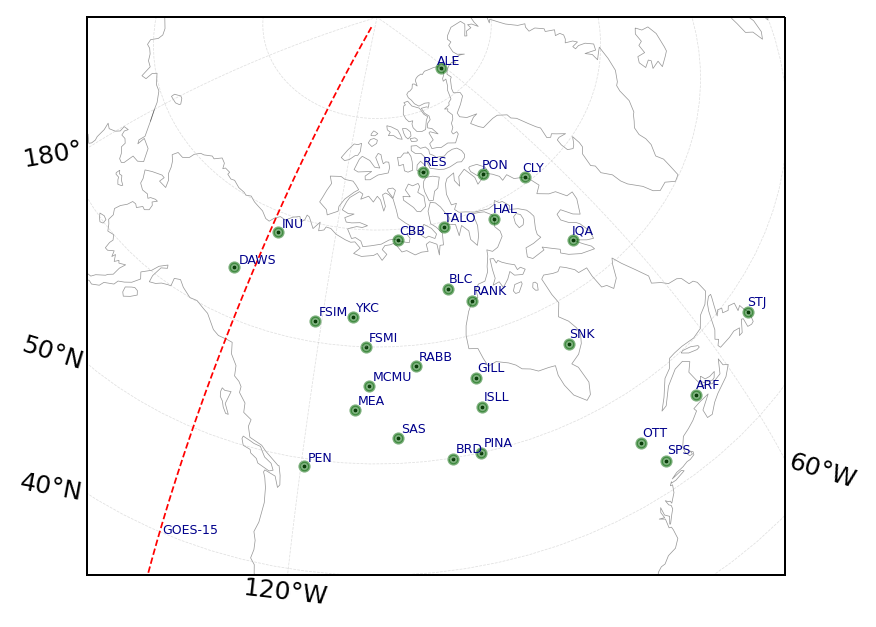
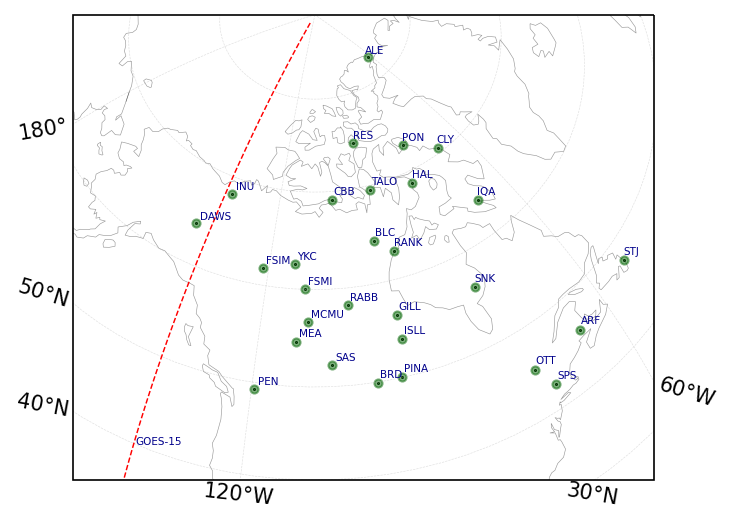
SW - Absorption

diff --git a/analytics/plotlib.py b/analytics/plotlib.py
@@ -16,18 +16,27 @@ matplotlib.use("Agg")
 import cartopy
 import cartopy.crs as ccrs
 import matplotlib.pyplot as plt
-#plt.style.use("config/alt.mplstyle")
+plt.style.use("seaborn-bright")
 import numpy as np
 import pandas as pd
 import matplotlib.ticker as mticker
 import datetime as dt
 import aacgmv2
+from netCDF4 import Dataset, num2date
+import matplotlib.dates as mdates
+
+import os
+import sys
+sys.path.append("models/")
+
+import utils
+from fetch_data import Simulation, Riometer
 
 np.set_printoptions(formatter={"float_kind": lambda x:"{:.2f}".format(x)})
 
 def plot_rio_locations():
     """ Plot all riometers used for the study """
-    fig = plt.figure(figsize=(5,9),dpi=180)
+    fig = plt.figure(figsize=(5,9),dpi=150)
     ax = plt.axes(projection=ccrs.NearsidePerspective(central_longitude=-110, central_latitude=60))
     kwargs = {}
     kwargs["edgecolor"] = "black"
@@ -60,9 +69,168 @@ def plot_rio_locations():
          column_format="ccccc"))  
     return
 
+def analysis_plot():
+    def fit_mod(y, x=np.arange(10,500), lim=55):
+        yf = utils.extrap1d(x[lim:], y[lim:], kind="linear")
+        return yf(x)
+    rio = "ott"
+    date = dt.datetime(2015,3,11,16,20)
+    sim = Simulation(date, rio)
+    sim.create_remote_local_dir()
+    sim.get_bgc_file()
+    sim.get_flare_file()
+    _ncb = Dataset(sim._dir_ + "bgc.nc")
+    _ncf = Dataset(sim._dir_ + "flare.nc")
+    alt = np.arange(10,500)
+    fig, axes = plt.subplots(figsize=(5,8),dpi=120,nrows=3,ncols=2,sharey="row")
+    ax = axes[0,0]
+    ax.set_ylabel("Height, km")
+    ax.set_xlabel(r"Density, $m^{-3}$")
+    ax.semilogx(fit_mod(_ncf.variables["ne"][10,:]), alt, color="r", ls="--", lw=1.)
+    ax.semilogx(fit_mod(_ncf.variables["ni"][10,:]), np.arange(10,500), color="g", ls="--", lw=1.)
+    ax.semilogx(fit_mod(_ncf.variables["ni-"][10,:]), np.arange(10,500), color="b", ls="--", lw=1.)
+    ax.semilogx(fit_mod(_ncf.variables["nix"][10,:]), np.arange(10,500), color="gold", ls="--", lw=1.)
+    ax.text(0.5,1.05,"2015-03-11 16:02 UT", ha="center", va="center", fontdict={"color":"b"}, transform=ax.transAxes)
+    ax.text(0.7,.9,"(a.1)", ha="center", va="center", transform=ax.transAxes)
+    ax.set_ylim(60,120)
+    ax.set_xlim(1e6,1e12)
+    ax = axes[0,1]
+    ax.set_xlabel(r"Density, $m^{-3}$")
+    ax.semilogx(_ncf.variables["ne"][20,:], alt, color="r", ls="--", lw=1., label=r"$n_e$")
+    ax.semilogx(_ncf.variables["ni"][20,:], np.arange(10,500), color="g", ls="--", lw=1., label=r"$n^+$")
+    ax.semilogx(_ncf.variables["ni-"][20,:], np.arange(10,500), color="b", ls="--", lw=1., label=r"$n^-$")
+    ax.semilogx(_ncf.variables["nix"][20,:], np.arange(10,500), color="gold", ls="--", lw=1., label=r"$n_x^+$")
+    ax.set_xlim(1e6,1e12)
+    ax.set_ylim(60,120)
+    ax.text(0.5,1.05,"2015-03-11 16:22 UT", ha="center", va="center", fontdict={"color":"b"}, transform=ax.transAxes)
+    ax.text(0.7,.9,"(a.2)", ha="center", va="center", transform=ax.transAxes)
+    ax.legend(bbox_to_anchor=(1.05, 0.8))
+    
+    ax = axes[1,0]
+    ax.set_ylabel("Height, km")
+    ax.set_xlabel(r"Collision Frequency $(\nu)$, $s^{-1}$")
+    ax.semilogx(fit_mod(_ncb.variables["col.av.sn"][10,:]), alt, color="b", ls="--", lw=1.)
+    ax.semilogx(_ncb.variables["col.ft"][10,:], alt, color="r", ls="--", lw=1.)
+    ax.semilogx(_ncb.variables["col.av.cc"][10,:], alt, color="g", ls="--", lw=1.)
+    ax.semilogx(_ncb.variables["col.av.mb"][10,:], alt, color="g", ls="-.", lw=1.)
+    ax.text(0.7,.9,"(b.1)", ha="center", va="center", transform=ax.transAxes)
+    ax.set_ylim(60,120)
+    ax.set_xlim(1e2,1e8)
+    ax = axes[1,1]
+    ax.set_xlabel(r"Collision Frequency $(\nu)$, $s^{-1}$")
+    ax.semilogx(fit_mod(_ncb.variables["col.av.sn"][10,:]), alt, color="b", ls="--", lw=1., label=r"$\nu_{sn}$")
+    ax.semilogx(_ncb.variables["col.ft"][20,:], alt, color="r", ls="--", lw=1., label=r"$\nu_{me}$")
+    ax.semilogx(_ncb.variables["col.av.cc"][20,:], alt, color="g", ls="--", lw=1., label=r"$\nu^{cc}_{av}$")
+    ax.semilogx(_ncb.variables["col.av.mb"][20,:], alt, color="g", ls="-.", lw=1., label=r"$\nu^{mb}_{av}$")
+    ax.set_ylim(60,120)
+    ax.set_xlim(1e2,1e8)
+    ax.text(0.7,.9,"(b.2)", ha="center", va="center", transform=ax.transAxes)
+    ax.legend(bbox_to_anchor=(1.05, 0.8))
+    
+    ax = axes[2,0]
+    ax.set_ylabel("Height, km")
+    ax.set_xlabel(r"Absorption $(\beta^h)$, $db/km$")
+    ax.plot(fit_mod(_ncf.variables["abs.ah.sn.o"][10,:], lim=65), alt, color="r", ls="--", lw=1.)
+    ax.plot(fit_mod(_ncf.variables["abs.ah.av.cc.o"][10,:], lim=65), alt, color="g", ls="--", lw=1.)
+    ax.plot(fit_mod(_ncf.variables["abs.ah.av.mb.o"][10,:], lim=65), alt, color="b", ls="--", lw=1.)
+    ax.plot(fit_mod(_ncf.variables["abs.sw.ft.o"][10,:], lim=65), alt, color="k", ls="-.", lw=1.)
+    ax.set_ylim(60,120)
+    ax.set_xlim(0,0.15)
+    ax.text(0.7,.9,"(c.1)", ha="center", va="center", transform=ax.transAxes)
+    ax = axes[2,1]
+    ax.set_xlabel(r"Absorption $(\beta^h)$, $db/km$")
+    ax.plot(fit_mod(_ncf.variables["abs.ah.sn.o"][22,:]), alt, color="r", ls="--", lw=1., label=r"$\beta_{ah}^h(\nu_{sn})$")
+    ax.plot(fit_mod(_ncf.variables["abs.ah.av.cc.o"][22,:]), alt, color="g", ls="--", lw=1., label=r"$\beta_{ah}^h(\nu^{cc}_{av})$")
+    ax.plot(fit_mod(_ncf.variables["abs.ah.av.mb.o"][22,:]), alt, color="b", ls="--", lw=1., label=r"$\beta_{ah}^h(\nu^{mb}_{av})$")
+    ax.plot(fit_mod(_ncf.variables["abs.sw.ft.o"][22,:]), alt, color="k", ls="-.", lw=1., label=r"$\beta_{ah}^h(\nu_{me})$")
+    ax.set_ylim(60,120)
+    ax.set_xlim(0,0.15)
+    ax.legend(bbox_to_anchor=(1.75, 0.8))
+    ax.text(0.7,.9,"(c.2)", ha="center", va="center", transform=ax.transAxes)
+    
+    sim.clear_local_folders()
+    fig.subplots_adjust(wspace=0.2, hspace=0.3)
+    fig.savefig("figs/Figure03.png",bbox_inches="tight")
+    return
+
+def example_event():
+    fontT = {"family": "serif", "color":  "k", "weight": "normal", "size": 8}
+    font = {"family": "serif", "color":  "black", "weight": "normal", "size": 10}
+    def coloring_axes(ax, atype="left", col="red"):
+        ax.spines[atype].set_color(col)
+        ax.tick_params(axis="y", which="both", colors=col)
+        ax.yaxis.label.set_color(col)
+        fmt = matplotlib.dates.DateFormatter("%H%M")
+        ax.xaxis.set_major_formatter(fmt)
+        ax.xaxis.set_major_locator(mdates.MinuteLocator(interval=10))
+        return ax
+
+    def coloring_twaxes(ax, atype="left", col="red", twcol="k"):
+        ax.spines[atype].set_color(col)
+        ax.tick_params(axis="y", which="both", colors=twcol)
+        ax.yaxis.label.set_color(twcol)
+        fmt = matplotlib.dates.DateFormatter("%H%M")
+        ax.xaxis.set_major_formatter(fmt)
+        ax.xaxis.set_major_locator(mdates.MinuteLocator(interval=10))
+        return ax
+    
+    rio = "ott"
+    alts = np.arange(10,500)
+    date = dt.datetime(2015,3,11,16,20)
+    sim = Simulation(date, rio)
+    sim.create_remote_local_dir()
+    sim.get_flare_file()
+    file_name = Riometer().get_riometer_file(None, date, rio)
+    _ncf = Dataset(sim._dir_ + "flare.nc")
+    times = num2date(_ncf.variables["time"][:], _ncf.variables["time"].units, _ncf.variables["time"].calendar,
+        only_use_cftime_datetimes=False)
+    times = np.array([x._to_real_datetime() for x in times]).astype("datetime64[ns]")
+    times = [dt.datetime.utcfromtimestamp(x.astype(int) * 1e-9) for x in times]
+    riom = utils.read_riometer(date, "ott")    
+    
+    fig, ax = plt.subplots(figsize=(5,5),dpi=120,nrows=1,ncols=1)
+    sTime,eTime = dt.datetime(2015,3,11,16,10), dt.datetime(2015,3,11,17)  
+    ax = coloring_axes(ax, col="gray")
+    ax.plot(riom.date, riom.absorp,color="gray",marker="o", markersize=1,ls="None")
+    ax.set_ylim(1e-6,1e-3)
+    font["color"] = "gray"
+    ax.set_ylabel(r"Observation, dB",fontdict=font)
+    font["color"] = "k"
+    ax.set_xlabel("Time (UT)",fontdict=font)
+    ax.grid(False, axis="y")
+    ax.set_xlim(sTime,eTime)
+    ax.set_ylim(-.1, 3.)
+    
+    ax = coloring_twaxes(ax.twinx(), col="gray")
+    ax.plot(times, _ncf.variables["drap"][:], "darkred", label=r"$\beta_{DRAP2}$", ls="--", lw=0.8)
+    ax.plot(times, utils.int_absorption(_ncf.variables["abs.ah.sn.o"][:], alts, extpoint=68),
+            "r", label=r"$\beta_{ah}(\nu_{sn})$", ls="-", lw=1.2)
+    ax.plot(times, utils.int_absorption(_ncf.variables["abs.ah.av.cc.o"][:], alts, extpoint=64),
+            "g", label=r"$\beta_{ah}(\nu_{av}^{cc})$", ls="-", lw=0.8)
+    ax.plot(times, utils.int_absorption(_ncf.variables["abs.ah.av.mb.o"][:], alts, extpoint=64),
+            "b", label=r"$\beta_{ah}(\nu_{av}^{mb})$", ls="-", lw=1.2)
+    ax.plot(times, utils.int_absorption(_ncf.variables["abs.sw.ft.o"][:], alts, extpoint=64),
+                    "k", label=r"$\beta_{sw}(\nu_{me})$", ls="-", lw=1.2)
+    ax.legend(loc=1, scatterpoints=2, ncol=1, fontsize=8, frameon=True)
+    ax.set_ylim(-.1, 3.)
+    font["color"] = "k"
+    ax.set_ylabel("Modeled HF Absorption, dB",fontdict=font)
+    font["color"] = "darkgreen"
+    ax.text(0.5,1.05,"Station - OTT, 11 March 2015",horizontalalignment="center",
+                    verticalalignment="center", transform=ax.transAxes,fontdict=font)
+    font["color"] = "k"
+    ax.set_xlim(sTime,eTime)
+    fig.autofmt_xdate(rotation=70,ha="center")
+    sim.clear_local_folders()
+    os.remove(file_name)
+    fig.savefig("figs/Figure04.png",bbox_inches="tight")
+    return
+
 if __name__ == "__main__":
     ###############################################
     # Run one time plots for final use
     ###############################################
     plot_rio_locations()
+    analysis_plot()
+    example_event()
     pass

diff --git a/analytics/polarstats.py b/analytics/polarstats.py
@@ -1,0 +1,90 @@
+import matplotlib
+matplotlib.use("Agg")
+import matplotlib.dates as mdates
+import matplotlib.pyplot as plt
+#plt.style.use("config/alt.mplstyle")
+import numpy as np
+import pandas as pd
+import xarray
+import datetime as dt
+from scipy.stats import kendalltau
+
+size = 7
+from matplotlib import font_manager
+ticks_font = font_manager.FontProperties(family="serif", size=size, weight="normal")
+matplotlib.rcParams["xtick.color"] = "k"
+matplotlib.rcParams["ytick.color"] = "k"
+matplotlib.rcParams["xtick.labelsize"] = size
+matplotlib.rcParams["ytick.labelsize"] = size
+matplotlib.rcParams["mathtext.default"] = "default"
+font = {"family": "serif", "color":  "darkblue", "weight": "normal", "size": size}
+fonttext = {"family": "serif", "color":  "red", "weight": "normal", "size": size}
+fontlabel = {"family": "serif", "color":  "darkgreen", "weight": "normal", "size": size*1.5}
+
+def parse_2D_data(q, r, t, zv, k=0):
+    """
+    Method converts scans to "beam" and "slist" or gate
+    """
+    plotParamDF = q[ [r, t, zv] ]
+    _r, _t = np.arange(0,90,9), np.arange(0,24,1)
+    rr, tt = np.meshgrid(_r, _t)
+    Z = np.zeros_like(rr)*np.nan
+    for j in range(len(_r)-1):
+        for i in range(len(_t)-1):
+            dat = plotParamDF[(plotParamDF[r] >= _r[j]) & (plotParamDF[r] < _r[j+1])
+                    & (plotParamDF[t] >= _t[i]) & (plotParamDF[t] < _t[i+1])]
+            if len(dat) > 0: Z[i,j] = dat[zv].mean()
+    
+    _r, _t = np.arange(0,1,1/len(_r)), np.arange(0,360,360./len(_t))
+    rr, tt = np.meshgrid(_r, _t)
+    u = pd.DataFrame(np.array([rr.ravel(), tt.ravel(), Z.ravel()]).T, columns=["r","t","z"])
+    u.z = u.z + 0.2
+    u = u.dropna()
+    x = u.groupby(by="r").mean().reset_index()
+    print(r, np.round(kendalltau(x.r, x.z), 2))
+    #print(t, np.round(kendalltau(u.t, u.z),2))
+    #print(r, np.round(kendalltau(u.r, u.z),2))
+    return u.r.tolist(), u.t.tolist(), u.z.tolist(), rr, tt, Z
+
+
+fig = plt.figure(dpi=180, figsize=(5,10))
+labels = [r"$\beta_{ah}(\nu_{sn})$", r"$\beta_{ah}(\nu^{cc}_{av})$",
+                        r"$\beta_{ah}(\nu^{mb}_{av})$", r"$\beta_{sw}(\nu_{me})$"]
+df = pd.concat([pd.read_csv("config/skills_X.csv"),pd.read_csv("config/skills_M.csv")])
+df = df[df.S_sn>-.3]
+for j, nm in enumerate(["sn","avcc","avmb","sw"]):
+    df = df[~df.isin([np.nan, np.inf, -np.inf]).any(1)]
+    ax = plt.subplot(421+j*2, projection="polar")
+    ax.set_rlim(0,1)
+    ax.set_theta_zero_location("S")
+    r, t, v, rr, tt, Z = parse_2D_data(df, "sza", "local_time", "S_"+nm)
+    im = ax.pcolormesh(np.deg2rad(tt), rr, Z, cmap="RdBu", alpha=0.75, vmax=0.6, vmin=-.2, shading="auto")
+    txt = labels[j] + "\n" + r"$\bar{\mathcal{S}}_F$=%.3f"%np.mean(v) + "\n" +\
+            r"$\mathcal{S}_F\sim$[%.2f,%.2f]"%(np.quantile(v,.025), np.quantile(v,.975))
+    ax.text(np.deg2rad(225),1.5, txt, ha="center", va="center", fontdict=fonttext)
+    ax.grid(True)
+    if j==0: ax.set_title(r"$\mathcal{S}_F\left(LT, SZA\right)$",fontdict=fontlabel)
+    ax.set_xticklabels([])
+    ax.set_yticklabels([])
+    if j==0: 
+        ax.set_xticklabels(["0", 3, "6", 9, "12LT", 15, "18", 21], fontdict=font)
+        ax.set_yticklabels([r"$0.1\pi$", r"$0.2\pi$", r"$0.3\pi$", r"$0.4\pi$", r"$0.5\pi$"], fontdict=font)
+    
+    ax = plt.subplot(421+j*2+1, projection="polar")
+    ax.set_rlim(0,1)
+    ax.set_theta_zero_location("S")
+    r, t, v, rr, tt, Z = parse_2D_data(df, "mlat", "mlt", "S_"+nm)
+    im = ax.pcolormesh(np.deg2rad(tt), rr, Z, cmap="RdBu", alpha=0.75, vmax=.6, vmin=-.2, shading="auto")
+    txt = labels[j] + "\n" + r"$\bar{\mathcal{S}}_F$=%.3f"%np.mean(v) + "\n" +\
+            r"$\mathcal{S}_F\sim$[%.2f,%.2f]"%(np.quantile(v,.025), np.quantile(v,.975))
+    ax.text(np.deg2rad(225),1.5, txt, ha="center", va="center", fontdict=fonttext)
+    ax.grid(True)
+    if j==0: ax.set_title(r"$\mathcal{S}_F\left(MLT, MLAT\right)$",fontdict=fontlabel)
+    ax.set_xticklabels([])
+    ax.set_yticklabels([])
+    if j==0: 
+        ax.set_xticklabels(["0", 3, "6", 9, "12MLT", 15, "18", 21], fontdict=font)
+        ax.set_yticklabels([r"$0.1\pi$", r"$0.2\pi$", r"$0.3\pi$", r"$0.4\pi$", r"$0.5\pi$"], fontdict=font)
+cb = fig.colorbar(im, ax=plt.gcf().get_axes(), shrink=0.4)
+cb.set_label(r"$\mathcal{S}_F$", fontdict={"size":15})
+fig.savefig("../_images_/polar.png", bbox_inches="tight")

diff --git a/analytics/bgc.py b/analytics/bgc.py
@@ -114,9 +114,9 @@ class Bgc(object):
                 self.msis["CO"][I,:] = self._get_params_("CO")
                 self.msis["CO2"][I,:] = self._get_params_("CO2")
                 for J,h in enumerate(self.alts):
-                    result = dask.delayed(self.populate_grid)(I, J, u, h, lat, lon)
-                    results.append(result)
-            dask.compute(*results)
+                    self.populate_grid(I, J, u, h, lat, lon)
+                    #results.append(result)
+            #dask.compute(*results)
             self._col_ = Collision(self.msis, self.iri, self.iri["Ne"], self.iri["Te"], self.iri["Ti"])
             self._abs_ = Absorption(self.igrf["B"], self._col_, self.iri["Ne"], fo=freq*1e6)
             print("\n Grid point %.2f,%.2f is downloaded." % (lat,lon))
@@ -155,7 +155,7 @@ class Bgc(object):
         nn = (p.nn["AR"] + p.nn["H"] + p.nn["HE"] + p.nn["N"] \
               + p.nn["N2"] + p.nn["O"] + p.nn["O2"] + p.nn["O_anomalous"]) * 1e6 # in m^-3
         self.msis["nn"][I,J] = nn # in m^-3
-        #print(" Done Params (u, h, lat, lon):", u, h, lat, lon)
+        print(" Done Params (u, h, lat, lon):", u, h, lat, lon)
         return 0
     
     def _get_params_(self, sp):
@@ -270,7 +270,7 @@ class Bgc(object):
 if __name__ == "__main__":
     parser = argparse.ArgumentParser()
     parser.add_argument("-r", "--rio", default="ott", help="Riometer code (default ott)")
-    parser.add_argument("-ev", "--event", default=dt.datetime(2015,3,11,16,22), help="Start date (default 2015-3-11T16:22)",
+    parser.add_argument("-ev", "--event", default=dt.datetime(2015,3,11,16,20), help="Start date (default 2015-3-11T16:22)",
             type=dparser.isoparse)
     parser.add_argument("-s", "--start", default=dt.datetime(2015,3,11,16), help="Start date (default 2015-3-11T15:30)",
             type=dparser.isoparse)

diff --git a/analytics/batch.py b/analytics/batch.py
@@ -118,7 +118,8 @@ def skills_nc2csv(start, end, cls):
                 xdata = xarray.open_dataset(_dir_+"skill.nc")
                 attrs = xdata.attrs
                 rec = {
-                        "SZA": xdata["sza"].values.mean(), "LT": xdata["local_time"].values.mean(), "mlt": xdata["mlt"].values.mean(),
+                        "sza": xdata["sza"].values.mean(), "local_time": xdata["local_time"].values.mean(), 
+                        "mlt": xdata["mlt"].values.mean(),
                         "mlat": xdata.attrs["mlat"], "lat": xdata.attrs["lat"], "rio": rio, "date": ev, 
                         "S_sn": fetch_SS(attrs, "sn"), "mS_sn": fetch_SS(attrs, "sn", "m"),
                         "S_avcc": fetch_SS(attrs, "avcc"), "mS_avcc": fetch_SS(attrs, "avcc", "m"),
@@ -136,7 +137,7 @@ if __name__ == "__main__":
     parser.add_argument("-s", "--start", default=10, help="Start minutes delayed by some time", type=float)
     parser.add_argument("-e", "--end", default=50, help="End minutes delayed by some time", type=float)
     parser.add_argument("-v", "--verbose", action="store_false", help="Increase output verbosity (default True)")
-    parser.add_argument("-p", "--prog", default="tocsv", help="Program code [flare/bgc/stats/tocsv] (default bgc)")
+    parser.add_argument("-p", "--prog", default="flare", help="Program code [flare/bgc/stats/tocsv] (default bgc)")
     args = parser.parse_args()
     if args.verbose:
         print("\n Parameter list for Bgc simulation ")

diff --git a/analytics/simulate.py b/analytics/simulate.py
@@ -27,11 +27,11 @@ from model import Model
 if __name__ == "__main__":
     parser = argparse.ArgumentParser()
     parser.add_argument("-r", "--rio", default="ott", help="Riometer code (default ott)")
-    parser.add_argument("-ev", "--event", default=dt.datetime(2015,3,11,16,22), help="Start date (default 2015-3-11T16:22)",
+    parser.add_argument("-ev", "--event", default=dt.datetime(2015,3,11,16,20), help="Start date (default 2015-3-11T16:22)",
                         type=dparser.isoparse)
-    parser.add_argument("-s", "--start", default=dt.datetime(2015,3,11,16,12), help="Start date (default 2015-3-11T15:30)",
+    parser.add_argument("-s", "--start", default=dt.datetime(2015,3,11,16), help="Start date (default 2015-3-11T15:30)",
             type=dparser.isoparse)
-    parser.add_argument("-e", "--end", default=dt.datetime(2015,3,11,17,12), help="End date (default 2015-3-11T17:30)",
+    parser.add_argument("-e", "--end", default=dt.datetime(2015,3,11,17), help="End date (default 2015-3-11T17:30)",
             type=dparser.isoparse)
     parser.add_argument("-ps", "--plot_summary", action="store_true", help="Plot summary report (default False)")
     parser.add_argument("-sr", "--save_result", action="store_false", help="Save results (default True)")

diff --git a/analytics/models/absorption.py b/analytics/models/absorption.py
@@ -39,7 +39,7 @@ def C(p, y):
     return cy / gamma_factorial(p)
 
 
-def calculate_sw_RL_abs(Bo, Ne, nu, fo=30e6, nu_sw_r = 2.5):
+def calculate_sw_RL_abs(Bo, Ne, nu, fo=30e6, nu_sw_r = 1.):
     if Ne > 0. and Bo > 0. and nu > 0. and (not np.isnan(Ne)) \
             and (not np.isnan(Bo)) and (not np.isnan(nu)):
         k = (2*np.pi*fo) / pconst["c"]
@@ -57,7 +57,7 @@ def calculate_sw_RL_abs(Bo, Ne, nu, fo=30e6, nu_sw_r = 2.5):
     return R, L
 
 
-def calculate_sw_OX_abs(Bo, Ne, nu, fo=30e6, nu_sw_r = 2.5):
+def calculate_sw_OX_abs(Bo, Ne, nu, fo=30e6, nu_sw_r = 1.):
     if Ne > 0. and Bo > 0. and nu > 0. and (not np.isnan(Ne)) \
             and (not np.isnan(Bo)) and (not np.isnan(nu)):
         k = (2*np.pi*fo) / pconst["c"]
@@ -104,7 +104,7 @@ class Absorption(object):
     fo = operating frequency
     """
 
-    def __init__(self, Bo, coll, Ne, fo=30e6, nu_sw_r=2.5, _run_=True):
+    def __init__(self, Bo, coll, Ne, fo=30e6, nu_sw_r=1., _run_=True):
         if _run_:
             self.Bo = Bo
             self.Ne = Ne

diff --git a/analytics/models/model.py b/analytics/models/model.py
@@ -41,7 +41,7 @@ class Model(object):
         self.conn = get_session()
         self.check_run = False
         if self.sim.check_riometer_data_exists(self.conn) and self.sim.check_goes_exists(self.conn) and\
-            not self.sim.check_bgc_not_exists(self.conn) and self.sim.check_flare_not_exists(self.conn):
+            not self.sim.check_bgc_not_exists(self.conn) and not self.sim.check_flare_not_exists(self.conn):
             self._init_()
             self.check_run = True
             self.files = []
